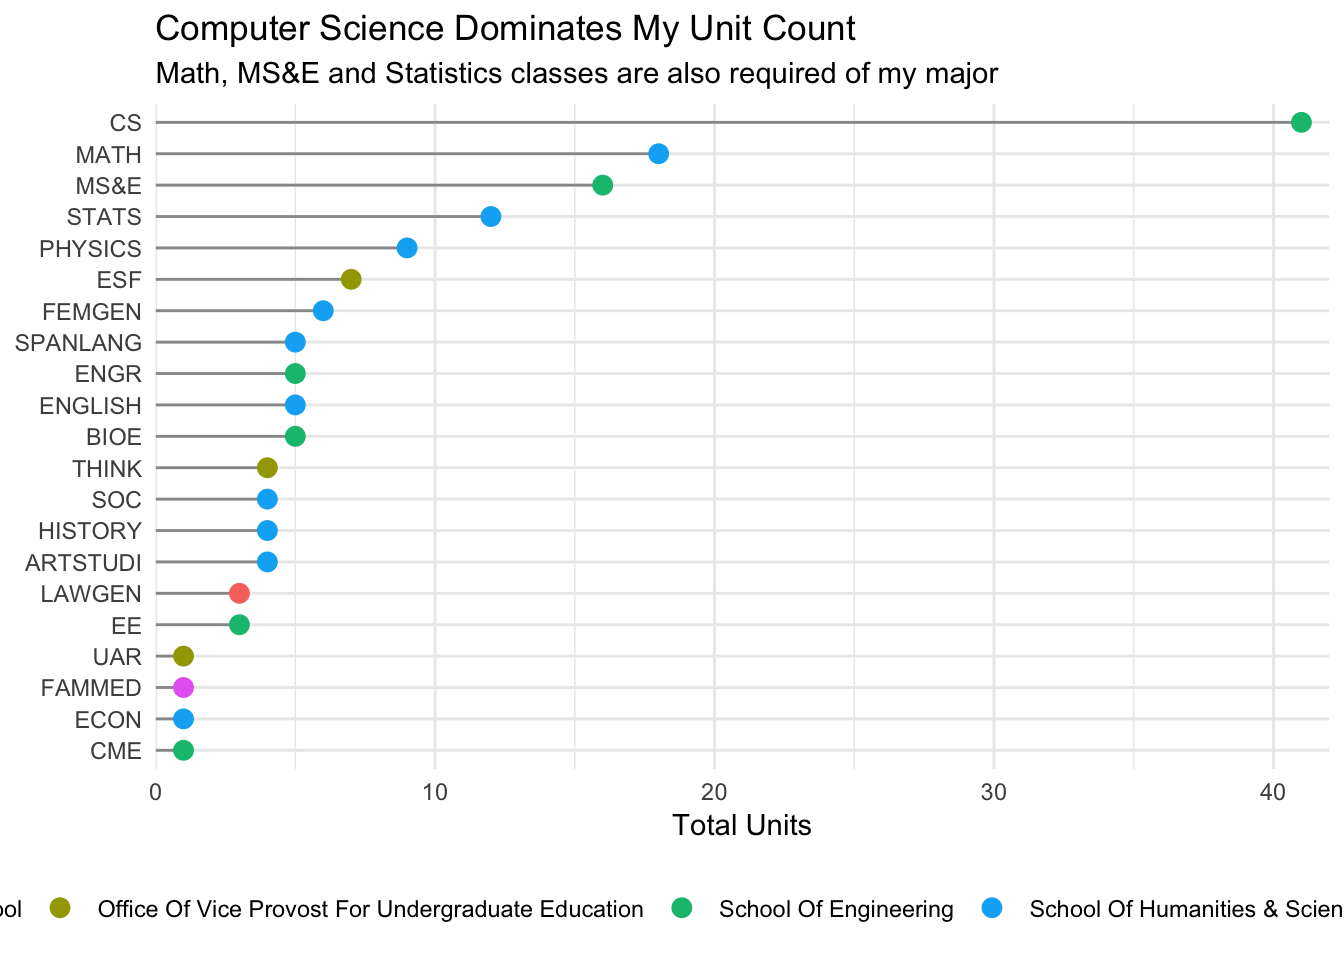
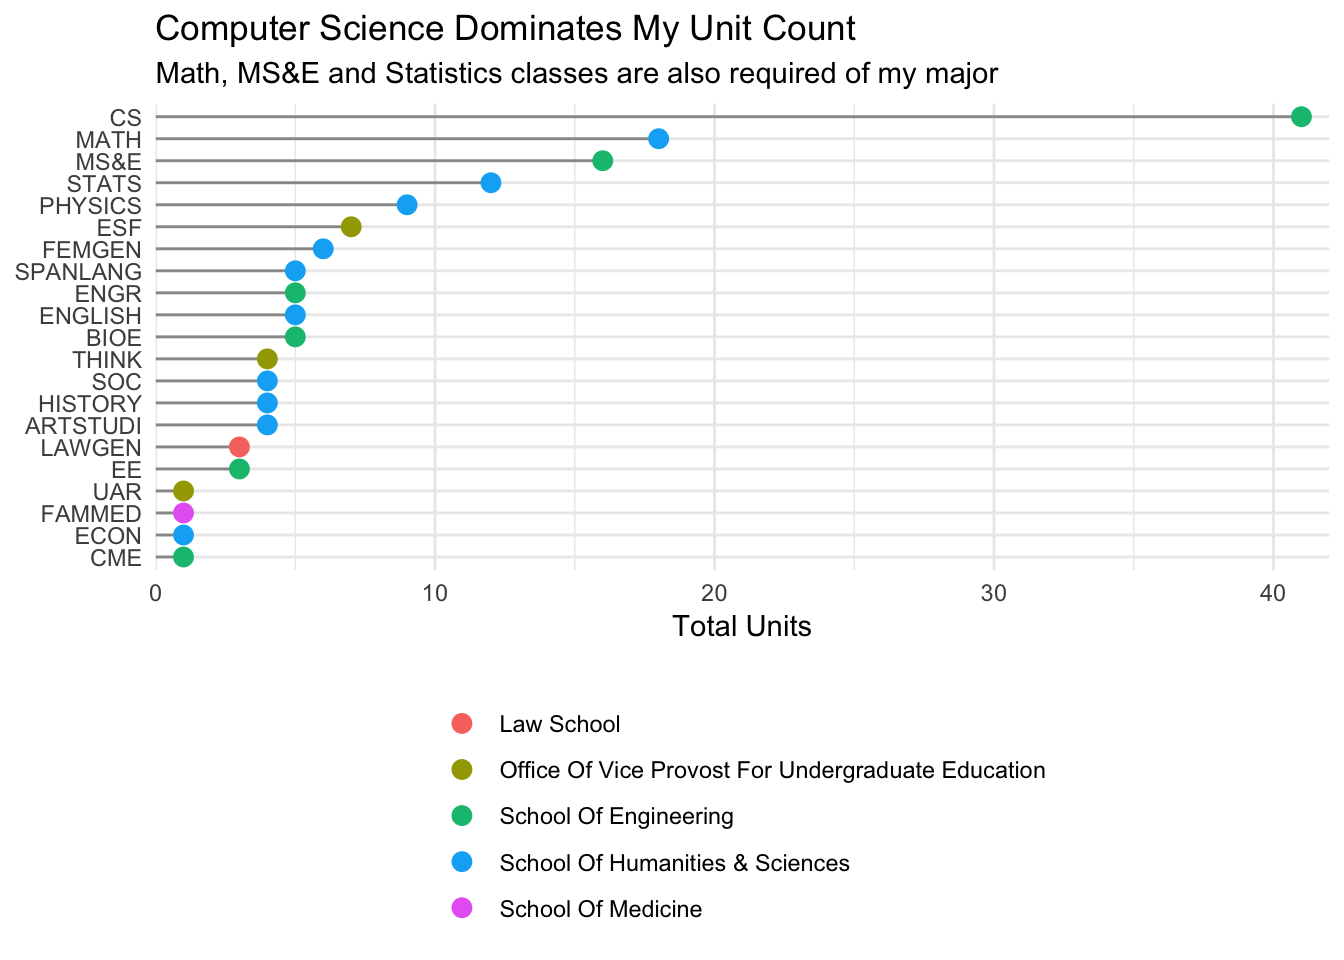
edit course desc post

diff --git a/post/2019-02-28-visualizing-course-descriptions/index.html b/post/2019-02-28-visualizing-course-descriptions/index.html
@@ -683,7 +683,9 @@ classes %&gt;%
   scale_y_continuous(limits = c(0, 42), expand = c(0,0)) +
   theme_minimal() +
   theme(
-    legend.position = &quot;bottom&quot;
+    legend.position = &quot;bottom&quot;,
+    
+    legend.direction = &quot;vertical&quot;,
   ) +
   coord_flip() +
   labs(
